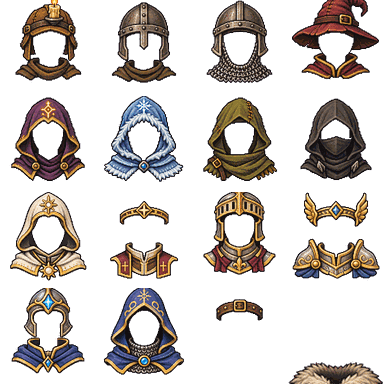
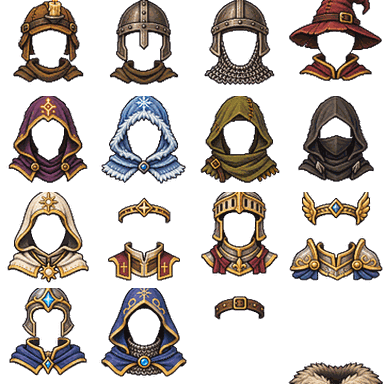
M8.10: hoods and helms fit the head; hair left off under them
Claude-Session: https://claude.ai/code/session_01AEHRuyPSDQGVtbtBJLwWks

diff --git a/src/ui/art/portrait.test.ts b/src/ui/art/portrait.test.ts
@@ -56,3 +56,32 @@ describe("portrait frames (M8.08)", () => {
     for (const a of ix.lib.alignments) expect(a.frame).toMatch(/^#[0-9a-f]{6}$/i);
   });
 });
+
+describe("hair under headgear (M8.10)", () => {
+  it("hoods and helms leave the hair off; circlets keep it", () => {
+    const html = (classId: string, i: number) =>
+      renderToStaticMarkup(
+        createElement(Portrait, { hero: { id: `h${i}`, name: `Hero ${i}`, classId } }),
+      );
+    const withHair = (classId: string) =>
+      Array.from({ length: 40 }, (_, i) => i).filter((i) => {
+        const f = faceOf({ id: `h${i}`, name: `Hero ${i}`, classId });
+        return f.hair !== undefined;
+      });
+    // Scouts always wear the hood (cell 6): never any hair.
+    for (const i of withHair("scout")) expect(html("scout", i)).not.toContain("faces/hair");
+    // A porter's headband (cell 14) shows the hair.
+    const porter = (i: number) =>
+      renderToStaticMarkup(
+        createElement(Portrait, {
+          hero: {
+            id: `h${i}`,
+            name: `Hero ${i}`,
+            classId: "fighter",
+            porter: { watched: 0, xp: 0 },
+          },
+        }),
+      );
+    expect(withHair("fighter").some((i) => porter(i).includes("faces/hair"))).toBe(true);
+  });
+});

diff --git a/src/ui/art/Portrait.tsx b/src/ui/art/Portrait.tsx
@@ -27,6 +27,13 @@ const ROWS: Record<Layer, number> = {
   hats: 4,
 };
 
+/**
+ * Headgear that covers the hair: hoods, helms and hats (M8.10). Hair drawn
+ * under them pokes out round the edges, so it's left off. Circlets (9, 11),
+ * the porter's headband (14) and the fur collar (15) keep the hair.
+ */
+const HIDES_HAIR = new Set([0, 1, 2, 3, 4, 5, 6, 7, 8, 10, 12, 13]);
+
 /** Hair colours, as CSS filters over the mid-brown the parts are drawn in. */
 export const HAIR = {
   brown: "none",
@@ -137,7 +144,9 @@ export function Portrait({
       {f.beard !== undefined ? (
         <Part layer="beards" cell={f.beard} size={size} filter={tint} />
       ) : null}
-      {f.hair !== undefined ? <Part layer="hair" cell={f.hair} size={size} filter={tint} /> : null}
+      {f.hair !== undefined && !(f.hat !== undefined && HIDES_HAIR.has(f.hat)) ? (
+        <Part layer="hair" cell={f.hair} size={size} filter={tint} />
+      ) : null}
       {f.injury !== undefined ? <Part layer="injuries" cell={f.injury} size={size} /> : null}
       {f.hat !== undefined ? <Part layer="hats" cell={f.hat} size={size} /> : null}
     </span>

diff --git a/src/version.ts b/src/version.ts
@@ -1,6 +1,6 @@
 // The version shown at the top of the page. Bump it by hand with each merged PR:
 // M<milestone>.<part>, e.g. M6.05 -> M6.06, or M7.01 when a new milestone starts.
-export const GAME_VERSION = "M8.09";
+export const GAME_VERSION = "M8.10";
 
 // Short commit hash, filled in by Vite at build time (see vite.config.ts).
 declare const __BUILD_COMMIT__: string | undefined;

diff --git a/scripts/cut-faces.py b/scripts/cut-faces.py
@@ -40,18 +40,19 @@ FIT = {
     "beards": (1.0, 0, 8),
     "extras": (1.0, 0, 0),
     "injuries": (1.0, 0, 0),
-    "hats": (1.0, 0, -6),
+    # Headgear a touch bigger than the head, so hoods and helms close round it (M8.10).
+    "hats": (1.06, 0, -7),
 }
 # Single parts that need their own fit, by layer and cell.
 OWN = {
     ("injuries", 0): (1.0, 0, -10),  # the head bandage goes round the brow
     ("injuries", 4): (1.0, 0, 24),  # the sling sits on the shoulder
-    ("hats", 0): (1.0, 0, -12),  # miner's cap
-    ("hats", 1): (1.0, 0, -10),  # nasal helm
-    ("hats", 2): (1.0, 0, -9),  # helmet and coif
-    ("hats", 3): (1.0, 0, -14),  # wizard hat
-    ("hats", 10): (1.0, 0, -9),  # paladin's great helm
-    ("hats", 12): (1.0, 0, -8),  # spellblade's half-helm
+    ("hats", 0): (1.06, 0, -13),  # miner's cap
+    ("hats", 1): (1.06, 0, -11),  # nasal helm
+    ("hats", 2): (1.06, 0, -10),  # helmet and coif
+    ("hats", 3): (1.06, 0, -15),  # wizard hat
+    ("hats", 10): (1.06, 0, -10),  # paladin's great helm
+    ("hats", 12): (1.06, 0, -9),  # spellblade's half-helm
     ("hats", 15): (1.1, 0, 24),  # fur collar
 }
 

diff --git a/docs/DESIGN.md b/docs/DESIGN.md
@@ -1332,6 +1332,7 @@ A small icon set (`src/ui/art/icons/`) used everywhere names are: classes (roste
 - **Built in M8.06.** Mike drew the parts (DPBG-0018 to 0024: heads, hair, beards, scars and marks, injuries, two sheets of class headgear); `scripts/cut-faces.py` cuts them into 96px cells and lines each layer up on the head. `src/ui/art/Portrait.tsx` picks every layer by hashing the hero's id and birth name (a risen hero keeps their face, gone pale). Hair and beard share one of five colours, drawn as CSS filters over the brown the parts are painted in. Classes name their headgear cells (`hats` on `ClassDef`, checked by `validateLibrary`); porters wear the porter's cap; a hero with an injury shows one. Shown on roster cards, the memorial and hero fight tokens.
 - **M8.08: frames and more places.** The portrait frame takes the colour of the hero's alignment (`frame` on each alignment's content, checked by `validateLibrary`: Good gold, Neutral stone, Evil blood red). Portraits now also stand by each hero in the party panel's front and back rows, and across the top of the debrief (the fallen greyed and crossed, the hurt marked).
 - **M8.09: after Mike's first look.** Faces: the parts were drawn at the heads' scale, so they are no longer shrunk, only nudged (`FIT` in `scripts/cut-faces.py`); beards sit on the jaw, not under the eyes. Town map: the ground has grass, tufts, stones, flowers and woods outside the palisade, scattered from a fixed seed (`src/ui/town/map/ground.tsx`), and worn paths from the pit to each standing building. Fights: a move that strikes a whole group (Fireball, Cleave) draws a line and a ring to everyone it hit (`blows` from `stateAt`). The pit side on is a quarter shorter, one line of words per floor.
+- **M8.10: headgear fits.** Hoods, helms and hats are drawn a touch bigger than the head so they close round it, and hair is left off under them (`HIDES_HAIR` in `Portrait.tsx`): it poked out round the edges. Circlets, the porter's headband and the fur collar keep the hair.
 
 ### 6. Later, if wanted
 
